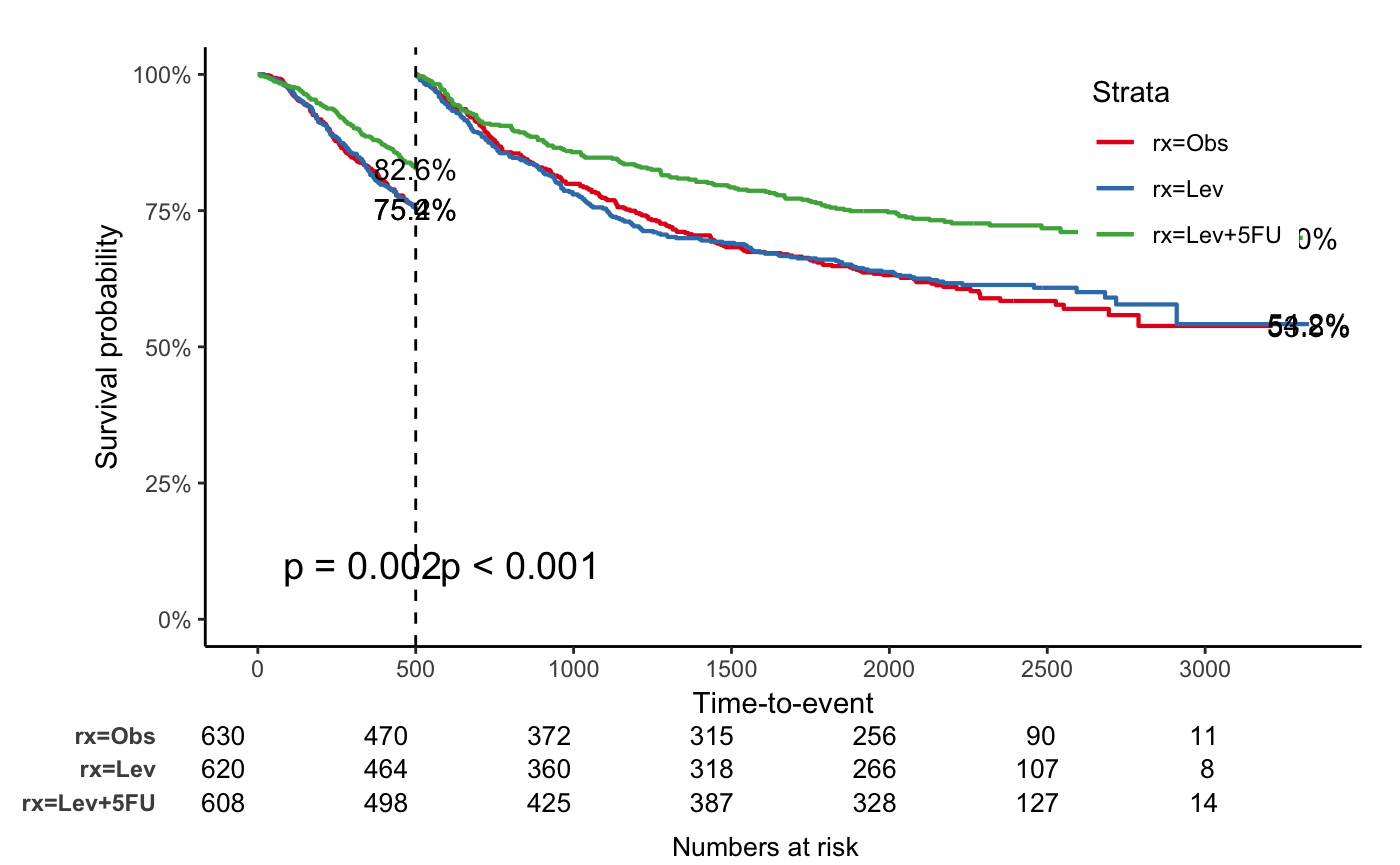
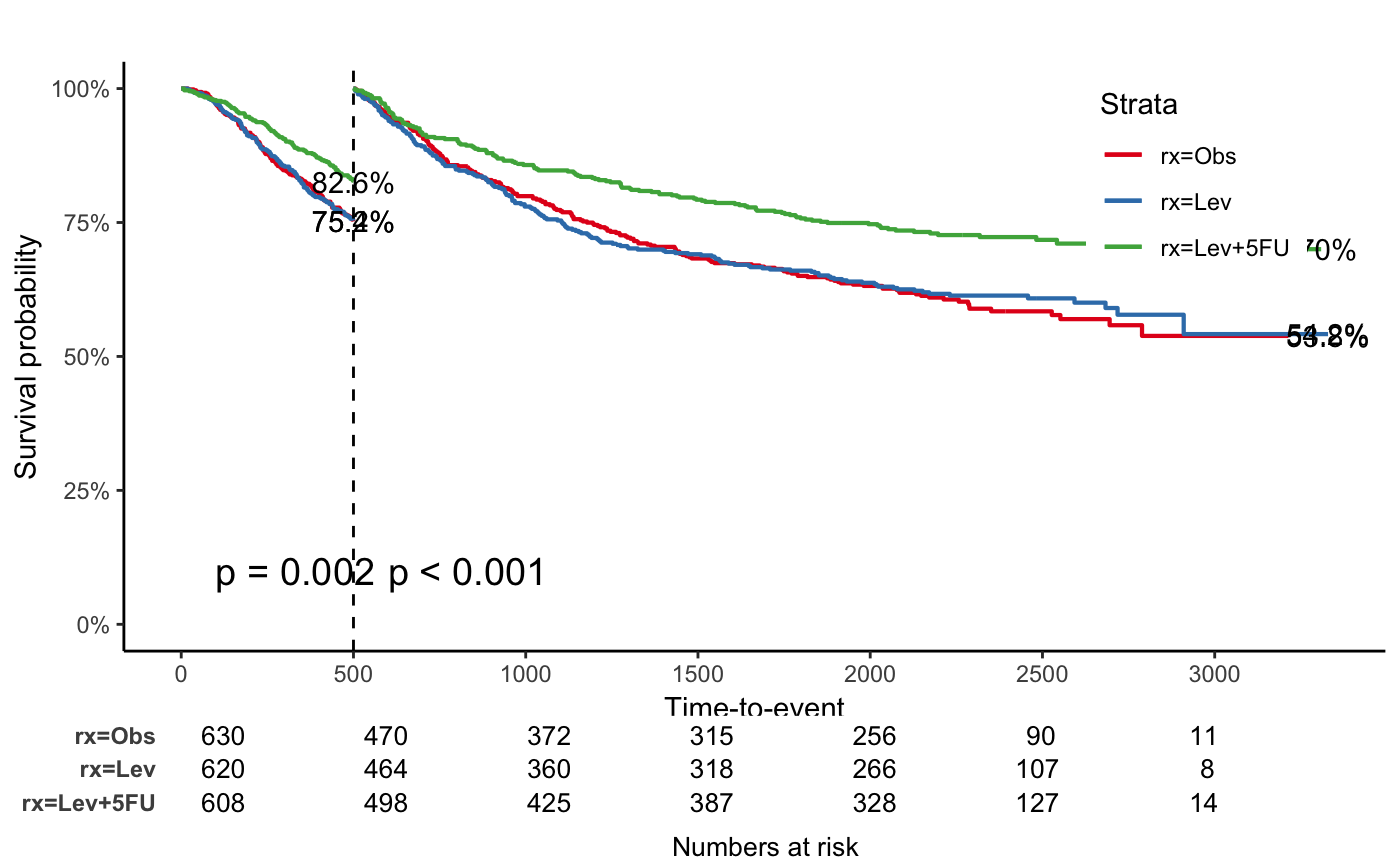
Built site for jskm: 0.5.5@

diff --git a/index.html b/index.html
@@ -105,7 +105,7 @@
 <span id="cb2-7"><a href="#cb2-7" tabindex="-1"></a><span class="fu">jskm</span>(fit)</span></code></pre></div>
 <p><img src="reference/figures/README-unnamed-chunk-1-1.png"><!-- --></p>
 <div class="sourceCode" id="cb3"><pre class="sourceCode r"><code class="sourceCode r"><span id="cb3-1"><a href="#cb3-1" tabindex="-1"></a><span class="fu">jskm</span>(fit,</span>
-<span id="cb3-2"><a href="#cb3-2" tabindex="-1"></a>  <span class="at">table =</span> T, <span class="at">pval =</span> T, <span class="at">label.nrisk =</span> <span class="st">"No. at risk"</span>, <span class="at">size.label.nrisk =</span> <span class="dv">8</span>,</span>
+<span id="cb3-2"><a href="#cb3-2" tabindex="-1"></a>  <span class="at">table =</span> T, <span class="at">pval =</span> T, <span class="at">med =</span> T, <span class="at">label.nrisk =</span> <span class="st">"No. at risk"</span>, <span class="at">size.label.nrisk =</span> <span class="dv">8</span>,</span>
 <span id="cb3-3"><a href="#cb3-3" tabindex="-1"></a>  <span class="at">xlabs =</span> <span class="st">"Time(Day)"</span>, <span class="at">ylabs =</span> <span class="st">"Survival"</span>, <span class="at">ystratalabs =</span> <span class="fu">c</span>(<span class="st">"Obs"</span>, <span class="st">"Lev"</span>, <span class="st">"Lev + 5FU"</span>), <span class="at">ystrataname =</span> <span class="st">"rx"</span>,</span>
 <span id="cb3-4"><a href="#cb3-4" tabindex="-1"></a>  <span class="at">marks =</span> F, <span class="at">timeby =</span> <span class="dv">365</span>, <span class="at">xlims =</span> <span class="fu">c</span>(<span class="dv">0</span>, <span class="dv">3000</span>), <span class="at">ylims =</span> <span class="fu">c</span>(<span class="fl">0.25</span>, <span class="dv">1</span>), <span class="at">showpercent =</span> T</span>
 <span id="cb3-5"><a href="#cb3-5" tabindex="-1"></a>)</span></code></pre></div>
@@ -146,13 +146,13 @@ competing risk</p>
 <div id="jama" class="section level4">
 <h4 class="hasAnchor">
 <a href="#jama" class="anchor"></a>JAMA</h4>
-<div class="sourceCode" id="cb9"><pre class="sourceCode r"><code class="sourceCode r"><span id="cb9-1"><a href="#cb9-1" tabindex="-1"></a><span class="fu">jskm</span>(fit, <span class="at">theme=</span><span class="st">'jama'</span>, <span class="at">cumhaz =</span> T, <span class="at">table=</span>T, <span class="at">mark =</span> F, <span class="at">ylab =</span> <span class="st">"Cumulative incidence (%)"</span>, <span class="at">surv.scale =</span> <span class="st">"percent"</span>, <span class="at">pval =</span>T, <span class="at">pval.size =</span> <span class="dv">6</span>, <span class="at">pval.coord =</span> <span class="fu">c</span>(<span class="dv">300</span>, <span class="fl">0.7</span>))</span></code></pre></div>
+<div class="sourceCode" id="cb9"><pre class="sourceCode r"><code class="sourceCode r"><span id="cb9-1"><a href="#cb9-1" tabindex="-1"></a><span class="fu">jskm</span>(fit, <span class="at">theme =</span> <span class="st">"jama"</span>, <span class="at">cumhaz =</span> T, <span class="at">table =</span> T, <span class="at">mark =</span> F, <span class="at">ylab =</span> <span class="st">"Cumulative incidence (%)"</span>, <span class="at">surv.scale =</span> <span class="st">"percent"</span>, <span class="at">pval =</span> T, <span class="at">pval.size =</span> <span class="dv">6</span>, <span class="at">pval.coord =</span> <span class="fu">c</span>(<span class="dv">300</span>, <span class="fl">0.7</span>))</span></code></pre></div>
 <p><img src="reference/figures/README-unnamed-chunk-5-1.png"><!-- --></p>
 </div>
 <div id="nejm" class="section level4">
 <h4 class="hasAnchor">
 <a href="#nejm" class="anchor"></a>NEJM</h4>
-<div class="sourceCode" id="cb10"><pre class="sourceCode r"><code class="sourceCode r"><span id="cb10-1"><a href="#cb10-1" tabindex="-1"></a><span class="fu">jskm</span>(fit, <span class="at">theme=</span><span class="st">'nejm'</span>, <span class="at">nejm.infigure.ratiow =</span> <span class="fl">0.7</span>, <span class="at">nejm.infigure.ratioh =</span> <span class="fl">0.4</span>, <span class="at">nejm.infigure.ylim =</span> <span class="fu">c</span>(<span class="dv">0</span>,<span class="fl">0.7</span>), <span class="at">cumhaz =</span> T, <span class="at">table=</span>T, <span class="at">mark =</span> F, <span class="at">ylab =</span> <span class="st">"Cumulative incidence (%)"</span>, <span class="at">surv.scale =</span> <span class="st">"percent"</span>, <span class="at">pval =</span>T, <span class="at">pval.size =</span> <span class="dv">6</span>, <span class="at">pval.coord =</span> <span class="fu">c</span>(<span class="dv">300</span>, <span class="fl">0.7</span>))</span></code></pre></div>
+<div class="sourceCode" id="cb10"><pre class="sourceCode r"><code class="sourceCode r"><span id="cb10-1"><a href="#cb10-1" tabindex="-1"></a><span class="fu">jskm</span>(fit, <span class="at">theme =</span> <span class="st">"nejm"</span>, <span class="at">nejm.infigure.ratiow =</span> <span class="fl">0.7</span>, <span class="at">nejm.infigure.ratioh =</span> <span class="fl">0.4</span>, <span class="at">nejm.infigure.ylim =</span> <span class="fu">c</span>(<span class="dv">0</span>, <span class="fl">0.7</span>), <span class="at">cumhaz =</span> T, <span class="at">table =</span> T, <span class="at">mark =</span> F, <span class="at">ylab =</span> <span class="st">"Cumulative incidence (%)"</span>, <span class="at">surv.scale =</span> <span class="st">"percent"</span>, <span class="at">pval =</span> T, <span class="at">pval.size =</span> <span class="dv">6</span>, <span class="at">pval.coord =</span> <span class="fu">c</span>(<span class="dv">300</span>, <span class="fl">0.7</span>))</span></code></pre></div>
 <p><img src="reference/figures/README-unnamed-chunk-6-1.png"><!-- --></p>
 </div>
 </div>
@@ -193,13 +193,13 @@ apply <code>se = T</code> option to <code>svykm</code> object.</p>
 <div id="jama-1" class="section level4">
 <h4 class="hasAnchor">
 <a href="#jama-1" class="anchor"></a>JAMA</h4>
-<div class="sourceCode" id="cb17"><pre class="sourceCode r"><code class="sourceCode r"><span id="cb17-1"><a href="#cb17-1" tabindex="-1"></a><span class="fu">svyjskm</span>(s2, <span class="at">theme=</span><span class="st">'jama'</span>, <span class="at">pval =</span> T,  <span class="at">table =</span> T, <span class="at">design =</span> dpbc)</span></code></pre></div>
+<div class="sourceCode" id="cb17"><pre class="sourceCode r"><code class="sourceCode r"><span id="cb17-1"><a href="#cb17-1" tabindex="-1"></a><span class="fu">svyjskm</span>(s2, <span class="at">theme =</span> <span class="st">"jama"</span>, <span class="at">pval =</span> T, <span class="at">table =</span> T, <span class="at">design =</span> dpbc)</span></code></pre></div>
 <p><img src="reference/figures/README-unnamed-chunk-9-1.png"><!-- --></p>
 </div>
 <div id="nejm-1" class="section level4">
 <h4 class="hasAnchor">
 <a href="#nejm-1" class="anchor"></a>NEJM</h4>
-<div class="sourceCode" id="cb18"><pre class="sourceCode r"><code class="sourceCode r"><span id="cb18-1"><a href="#cb18-1" tabindex="-1"></a><span class="fu">svyjskm</span>(s2, <span class="at">theme=</span><span class="st">'nejm'</span>, <span class="at">nejm.infigure.ratiow =</span> <span class="fl">0.45</span>, <span class="at">nejm.infigure.ratioh =</span> <span class="fl">0.4</span>, <span class="at">nejm.infigure.ylim =</span> <span class="fu">c</span>(<span class="fl">0.2</span>,<span class="dv">1</span>), <span class="at">pval =</span> T,  <span class="at">table =</span> T, <span class="at">design =</span> dpbc)</span></code></pre></div>
+<div class="sourceCode" id="cb18"><pre class="sourceCode r"><code class="sourceCode r"><span id="cb18-1"><a href="#cb18-1" tabindex="-1"></a><span class="fu">svyjskm</span>(s2, <span class="at">theme =</span> <span class="st">"nejm"</span>, <span class="at">nejm.infigure.ratiow =</span> <span class="fl">0.45</span>, <span class="at">nejm.infigure.ratioh =</span> <span class="fl">0.4</span>, <span class="at">nejm.infigure.ylim =</span> <span class="fu">c</span>(<span class="fl">0.2</span>, <span class="dv">1</span>), <span class="at">pval =</span> T, <span class="at">table =</span> T, <span class="at">design =</span> dpbc)</span></code></pre></div>
 <p><img src="reference/figures/README-unnamed-chunk-10-1.png"><!-- --></p>
 </div>
 </div>

diff --git a/news/index.html b/news/index.html
@@ -113,9 +113,27 @@
       <small>Source: <a href='https://github.com/jinseob2kim/jskm/blob/master/NEWS.md'><code>NEWS.md</code></a></small>
     </div>
 
+    <div id="jskm-056" class="section level1">
+<h1 class="page-header">
+<a href="#jskm-056" class="anchor"></a>jskm 0.5.6<small> Unreleased </small>
+</h1>
+<ul>
+<li>Update: Add median expression to the graph in <code>jskm</code> and
+<code>svyjskm</code>.</li>
+</ul>
+</div>
     <div id="jskm-055" class="section level1">
 <h1 class="page-header">
-<a href="#jskm-055" class="anchor"></a>jskm 0.5.5<small> Unreleased </small>
+<a href="#jskm-055" class="anchor"></a>jskm 0.5.5<small> 2024-07-08 </small>
+</h1>
+<ul>
+<li>Update: Align color of censoring marks with color of lines in
+<code>jskm</code>.</li>
+</ul>
+</div>
+    <div id="jskm-055-1" class="section level1">
+<h1 class="page-header">
+<a href="#jskm-055-1" class="anchor"></a>jskm 0.5.5<small> 2024-07-08 </small>
 </h1>
 <ul>
 <li>Update: Align color of censoring marks with color of lines in
@@ -434,7 +452,9 @@ option in <code>svyjskm</code></p></li>
     <div id="tocnav">
       <h2>Contents</h2>
       <ul class="nav nav-pills nav-stacked">
+        <li><a href="#jskm-056">0.5.6</a></li>
         <li><a href="#jskm-055">0.5.5</a></li>
+        <li><a href="#jskm-055-1">0.5.5</a></li>
         <li><a href="#jskm-054">0.5.4</a></li>
         <li><a href="#jskm-053">0.5.3</a></li>
         <li><a href="#jskm-052">0.5.2</a></li>

diff --git a/articles/jskm.html b/articles/jskm.html
@@ -70,13 +70,13 @@
 
       
 
-      </header><script src="jskm_files/header-attrs-2.27/header-attrs.js"></script><div class="row">
+      </header><script src="jskm_files/header-attrs-2.28/header-attrs.js"></script><div class="row">
   <div class="col-md-9 contents">
     <div class="page-header toc-ignore">
       <h1>jskm</h1>
                         <h4 class="author">Jinseob Kim</h4>
             
-            <h4 class="date">2024-07-08</h4>
+            <h4 class="date">2024-10-23</h4>
       
       <small class="dont-index">Source: <a href="https://github.com/jinseob2kim/jskm/blob/master/vignettes/jskm.Rmd"><code>vignettes/jskm.Rmd</code></a></small>
       <div class="hidden name"><code>jskm.Rmd</code></div>

diff --git a/articles/jskm_files/header-attrs-2.28/header-attrs.js b/articles/jskm_files/header-attrs-2.28/header-attrs.js
@@ -1,0 +1,12 @@
+// Pandoc 2.9 adds attributes on both header and div. We remove the former (to
+// be compatible with the behavior of Pandoc < 2.8).
+document.addEventListener('DOMContentLoaded', function(e) {
+  var hs = document.querySelectorAll("div.section[class*='level'] > :first-child");
+  var i, h, a;
+  for (i = 0; i < hs.length; i++) {
+    h = hs[i];
+    if (!/^h[1-6]$/i.test(h.tagName)) continue;  // it should be a header h1-h6
+    a = h.attributes;
+    while (a.length > 0) h.removeAttribute(a[0].name);
+  }
+});
